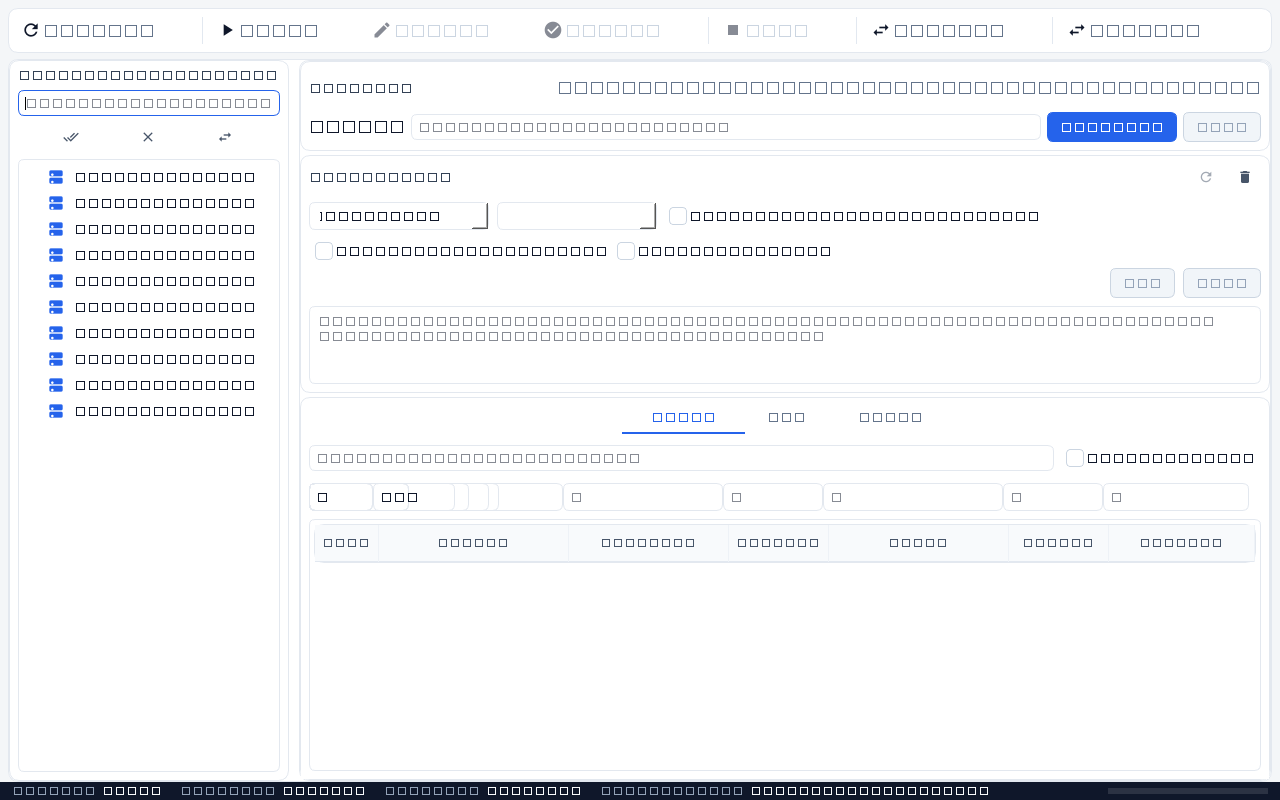
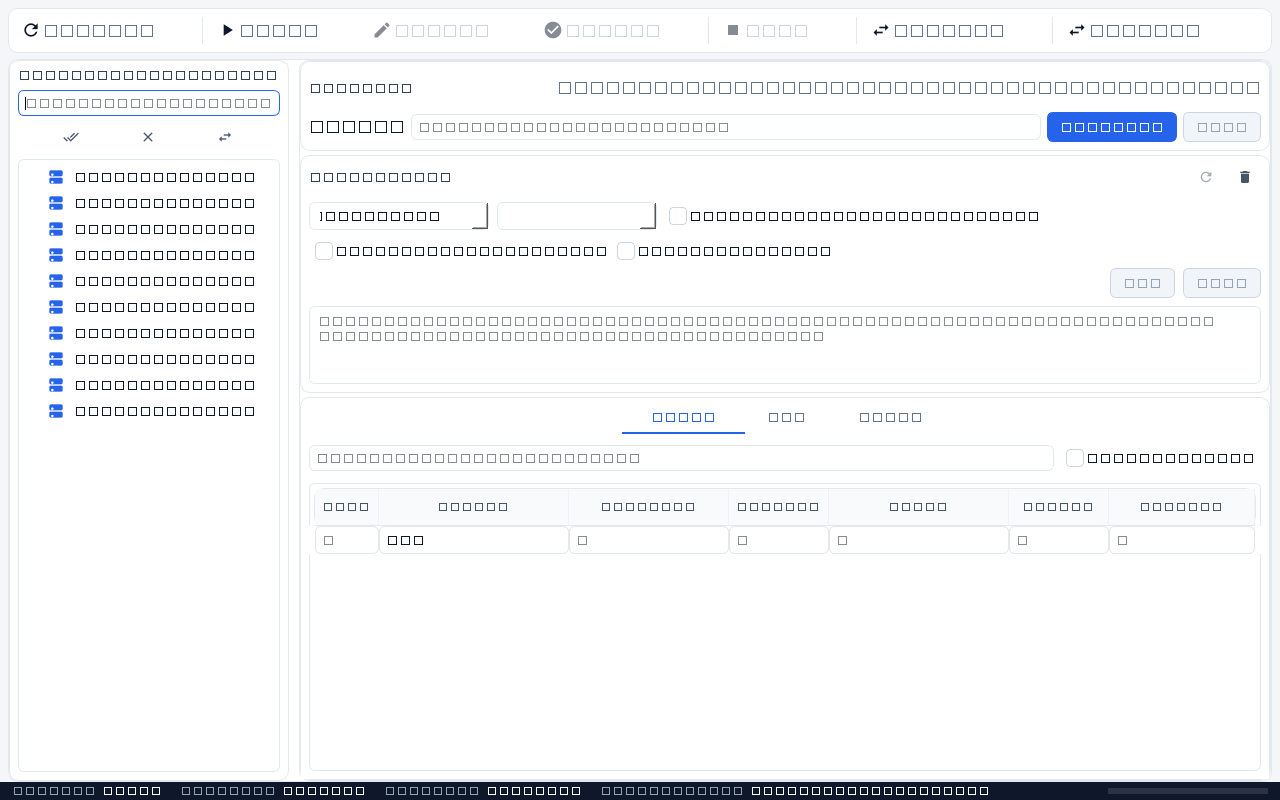
PATCH 4.12.49 — Results: фильтры закреплены под шапкой таблицы
Изменения:\n- поколоночные поля фильтра перенесены внутрь области QTableWidget как overlay-слой непосредственно под QHeaderView;\n- удалён независимый QScrollArea и ручное дублирование горизонтальной прокрутки;\n- геометрия каждого QLineEdit рассчитывается по sectionViewportPosition и sectionSize соответствующей колонки;\n- вертикальная прокрутка строк больше не перемещает строку фильтров;\n- горизонтальная прокрутка синхронно перемещает поля вместе с колонками без визуального смещения;\n- сохранена фильтрация contains: общий поиск AND группа поколоночных условий, условия внутри группы объединяются через OR;\n- версия приложения обновлена до 4.12.49.\n\nПроверки:\n- python3 -m py_compile gui/main_window.py gui/widgets/filter_header.py common/version.py;\n- QT_QPA_PLATFORM=offscreen python3 debug/debug_filter_smoke.py;\n- QT_QPA_PLATFORM=minimal python3 debug/debug_filter_visual.py;\n- git diff --check.

Changed region(s): [[0.25, 0.6562, 0.2812, 0.6875]]

diff --git a/gui/widgets/filter_header.py b/gui/widgets/filter_header.py
@@ -1,196 +1,139 @@
 """
 gui/widgets/filter_header.py
 
-Строка колоночных фильтров, размещаемая под заголовками таблицы Results.
+Встроенная строка поколоночных фильтров для Results.
 
-Каждой колонке соответствует своё поле QLineEdit (поиск contains по этой
-колонке). Поля синхронизируются по ширине и по горизонтальному скроллу
-с таблицей, к которой привязан виджет, поэтому при прокрутке/изменении
-ширины колонок поля не «разъезжаются».
+Поля являются дочерними элементами таблицы, располагаются непосредственно
+под QHeaderView и используют координаты самого заголовка. Поэтому вертикальная
+прокрутка строк их не двигает, а горизонтальная прокрутка перемещает каждое
+поле вместе с соответствующей колонкой.
 """
 
 from __future__ import annotations
 
-from PySide6.QtCore import Qt, Signal
-from PySide6.QtWidgets import (
-    QHBoxLayout,
-    QLineEdit,
-    QScrollArea,
-    QWidget,
-)
+from PySide6.QtCore import QEvent, Qt, Signal
+from PySide6.QtWidgets import QLineEdit, QTableWidget, QWidget
 
 
 class FilterHeaderRow(QWidget):
-    """Ряд полей фильтра, по одному на колонку таблицы.
+    """Overlay-строка фильтров, закреплённая под шапкой таблицы."""
 
-    Содержит QScrollArea, внутри которого горизонтальная строка QLineEdit.
-    Прокрутка и ширина полей синхронизируются с QHeaderView таблицы,
-    переданной в :meth:`bind`.
-    """
-
-    #: Срабатывает при изменении текста в любом из колоночных полей.
     filterChanged = Signal()
 
     def __init__(self, parent: QWidget | None = None) -> None:
         super().__init__(parent)
-        self._table = None
+        self._table: QTableWidget | None = None
         self._edits: list[QLineEdit] = []
-        self._row_height = 28  # высота строки фильтра
-
+        self._row_height = 28
         self.setFixedHeight(self._row_height)
-
-        outer = QHBoxLayout(self)
-        outer.setContentsMargins(0, 0, 0, 0)
-        outer.setSpacing(0)
-
-        self._scroll = QScrollArea()
-        self._scroll.setWidgetResizable(False)
-        self._scroll.setFixedHeight(self._row_height)
-        self._scroll.setHorizontalScrollBarPolicy(
-            Qt.ScrollBarAlwaysOff
+        self.setAttribute(Qt.WA_StyledBackground, True)
+        self.setStyleSheet(
+            "FilterHeaderRow { background: palette(base); }"
         )
-        self._scroll.setVerticalScrollBarPolicy(
-            Qt.ScrollBarAlwaysOff
-        )
-        self._scroll.setFrameShape(QScrollArea.NoFrame)
-        self._scroll.setAlignment(Qt.AlignLeft | Qt.AlignTop)
-        self._scroll.setStyleSheet(
-            "QScrollArea{background:transparent;border:none;}"
-        )
-        outer.addWidget(self._scroll)
+        self.hide()
 
-        self._content = QWidget()
-        self._content.setFixedHeight(self._row_height)
-        self._content.setStyleSheet(
-            "background:transparent;"
-        )
-        self._content_layout = QHBoxLayout(self._content)
-        self._content_layout.setContentsMargins(0, 0, 0, 0)
-        self._content_layout.setSpacing(0)
-        self._scroll.setWidget(self._content)
-
-    # --------------------------------------------------------------
-    # Привязка к таблице
-    # --------------------------------------------------------------
-
-    def bind(self, table) -> None:
-        """Привязывает виджет к таблице для синхронизации ширины/скролла.
-
-        table — QTableWidget, над которым размещена строка фильтров.
-        """
+    def bind(self, table: QTableWidget) -> None:
+        """Встраивает overlay в таблицу и подключает геометрические сигналы."""
         self._table = table
+        self.setParent(table)
+        self.raise_()
 
-        # QHeaderView не является обычным дочерним widget таблицы, поэтому
-        # поля нельзя надёжно разместить «внутри» заголовка через layout.
-        # Вместо этого строка фильтров живёт рядом с таблицей и получает
-        # изменения геометрии через сигналы самого QHeaderView.
         header = table.horizontalHeader()
-        header.sectionResized.connect(self._sync_layout)
-        header.sectionMoved.connect(self._sync_layout)
+        header.sectionResized.connect(self._schedule_sync)
+        header.sectionMoved.connect(self._schedule_sync)
+        header.geometriesChanged.connect(self._schedule_sync)
         table.horizontalScrollBar().valueChanged.connect(
-            self._sync_scroll
+            self._schedule_sync
         )
-        table.horizontalScrollBar().rangeChanged.connect(
-            self._sync_scroll
+        table.verticalScrollBar().valueChanged.connect(
+            self._schedule_sync
         )
+        table.installEventFilter(self)
+        table.viewport().installEventFilter(self)
+        header.installEventFilter(self)
 
-        self._sync_layout()
-
-    # --------------------------------------------------------------
-    # Управление колонками
-    # --------------------------------------------------------------
+        # Резервируем место под фильтры между шапкой и данными. Overlay
+        # остаётся дочерним таблицы, поэтому vertical scrollbar его не двигает.
+        table.setViewportMargins(0, self._row_height, 0, 0)
+        self._sync_geometry()
 
     def rebuild(self, columns: list[str]) -> None:
-        """Пересоздаёт поля фильтров по списку заголовков колонок.
-
-        Текущие значения полей не сохраняются — набор колонок меняется
-        при смене результата (Check / SQL / Search), поэтому фильтры
-        сбрасываются.
-
-        Если список колонок пуст, виджет скрывается.
-        """
-        if not columns:
-            # При пустом Results фильтры не должны занимать место между
-            # общим поиском и таблицей — это устраняет пустую область.
-            self.hide()
-            return
-
-        self.show()
-
-        # Отключаем сигналы на время пересоздания
+        """Создаёт по одному полю фильтра для каждой логической колонки."""
         for edit in self._edits:
-            edit.blockSignals(True)
-
-        # Удаляем старые поля
-        while self._content_layout.count():
-            item = self._content_layout.takeAt(0)
-            widget = item.widget()
-            if widget is not None:
-                widget.deleteLater()
-
+            edit.deleteLater()
         self._edits = []
 
+        if not columns:
+            self.hide()
+            self._sync_geometry()
+            return
+
         for column in columns:
-            edit = QLineEdit()
+            edit = QLineEdit(self)
             edit.setFixedHeight(self._row_height)
             edit.setPlaceholderText("…")
             edit.setClearButtonEnabled(True)
             edit.setToolTip(f"Фильтр по колонке «{column}»")
             edit.setMinimumWidth(40)
             edit.textChanged.connect(self._on_text_changed)
-            self._content_layout.addWidget(edit)
             self._edits.append(edit)
 
-        self._sync_layout()
+        self.show()
+        self.raise_()
+        self._sync_geometry()
 
     def get_filters(self) -> list[str]:
-        """Возвращает текст каждого поля (в порядке колонок)."""
+        """Возвращает фильтры в логическом порядке колонок."""
         return [edit.text().strip().lower() for edit in self._edits]
 
     def clear_filters(self) -> None:
-        """Очищает все поля фильтров."""
+        """Очищает все поколоночные фильтры."""
         for edit in self._edits:
             edit.blockSignals(True)
             edit.clear()
             edit.blockSignals(False)
-        self._sync_layout()
-
-    # --------------------------------------------------------------
-    # Слоты
-    # --------------------------------------------------------------
+        self._sync_geometry()
 
     def _on_text_changed(self) -> None:
         self.filterChanged.emit()
 
-    def _sync_layout(self) -> None:
-        """Выравнивает ширину полей по ширине колонок таблицы.
+    def _schedule_sync(self, *args) -> None:
+        self._sync_geometry()
 
-        Ширины берутся у QHeaderView, а не вычисляются по тексту заголовков:
-        это сохраняет выравнивание после ручного изменения размера колонок.
-        """
-        if self._table is None:
+    def _sync_geometry(self) -> None:
+        """Привязывает поля к текущей геометрии секций QHeaderView."""
+        table = self._table
+        if table is None:
             return
 
-        header = self._table.horizontalHeader()
-        scroll = self._scroll
+        header = table.horizontalHeader()
+        header_viewport = header.viewport()
+        header_origin = header_viewport.mapTo(table, header_viewport.rect().topLeft())
+        row_origin = header_origin.y() + header_viewport.height()
+        self.setGeometry(
+            0,
+            row_origin,
+            table.width(),
+            self._row_height,
+        )
 
-        # Ширина полей = ширины колонок, сдвиг = позиция скролла таблицы.
-        # Общая ширина контента нужна для корректного соответствия полей
-        # колонкам, включая случаи, когда таблица шире видимой области.
-        total = 0
-        for index, edit in enumerate(self._edits):
-            width = header.sectionSize(index) if index < header.count() else 80
-            edit.setFixedWidth(width)
-            total += width
+        visible_left = 0
+        visible_right = table.width()
+        for logical_index, edit in enumerate(self._edits):
+            if logical_index >= header.count():
+                edit.hide()
+                continue
 
-        self._content.setFixedWidth(total)
+            x = header_origin.x() + header.sectionViewportPosition(logical_index)
+            width = header.sectionSize(logical_index)
+            edit.setGeometry(x, 0, width, self._row_height)
+            edit.setVisible(
+                width > 0 and x + width > visible_left and x < visible_right
+            )
 
-        offset = self._table.horizontalScrollBar().value()
-        scroll.horizontalScrollBar().setValue(offset)
+        self.raise_()
 
-    def _sync_scroll(self) -> None:
-        """Синхронизирует горизонтальную прокрутку с таблицей."""
-        if self._table is None:
-            return
-        offset = self._table.horizontalScrollBar().value()
-        self._scroll.horizontalScrollBar().setValue(offset)
+    def eventFilter(self, watched: QWidget, event: QEvent) -> bool:
+        if event.type() in (QEvent.Resize, QEvent.LayoutRequest, QEvent.Move):
+            self._sync_geometry()
+        return super().eventFilter(watched, event)

diff --git a/gui/main_window.py b/gui/main_window.py
@@ -768,12 +768,10 @@ class MainWindow(QWidget):
 
         table_layout.addLayout(filter_layout)
 
-        # Фильтры по колонкам находятся отдельной строкой над таблицей.
-        # В отличие от общего поиска каждое поле относится только к своей
-        # колонке; это позволяет комбинировать точечные условия через OR.
+        # Строка поколоночных фильтров создаётся как overlay-дочерний виджет
+        # самой таблицы и закрепляется непосредственно под QHeaderView.
         self.filter_header = FilterHeaderRow()
         self.filter_header.setObjectName("FilterHeaderRow")
-        table_layout.addWidget(self.filter_header)
 
         self.table = QTableWidget()
 
@@ -818,9 +816,9 @@ class MainWindow(QWidget):
 
         self.table.setFocusPolicy(Qt.StrongFocus)
 
-        # Привязываем строку фильтров к таблице после её создания. Виджет
-        # слушает изменения ширины/порядка колонок и горизонтального скролла,
-        # поэтому поля всегда остаются выровненными с заголовками.
+        # Встраиваем строку фильтров в таблицу. Поля используют геометрию
+        # QHeaderView: вертикальная прокрутка данных их не двигает, а
+        # горизонтальная прокрутка перемещает их вместе с колонками.
         self.filter_header.bind(self.table)
 
         # ----------------------------------------------------------

diff --git a/common/version.py b/common/version.py
@@ -3,4 +3,4 @@ common/version.py
 Версия приложения.
 """
 
-APP_VERSION = "4.12.48"
+APP_VERSION = "4.12.49"
